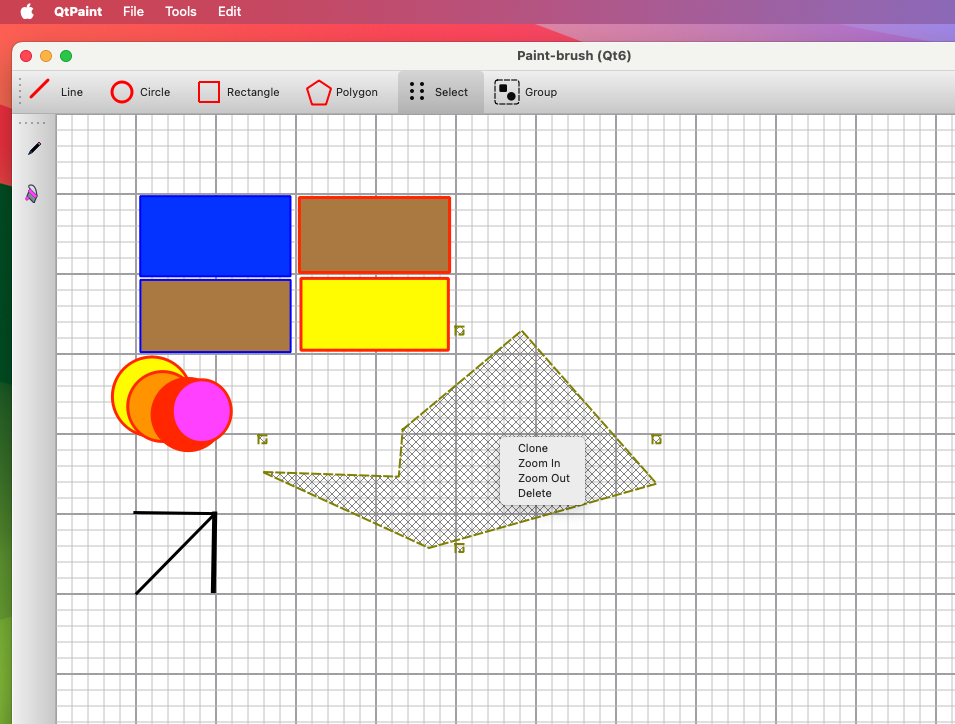
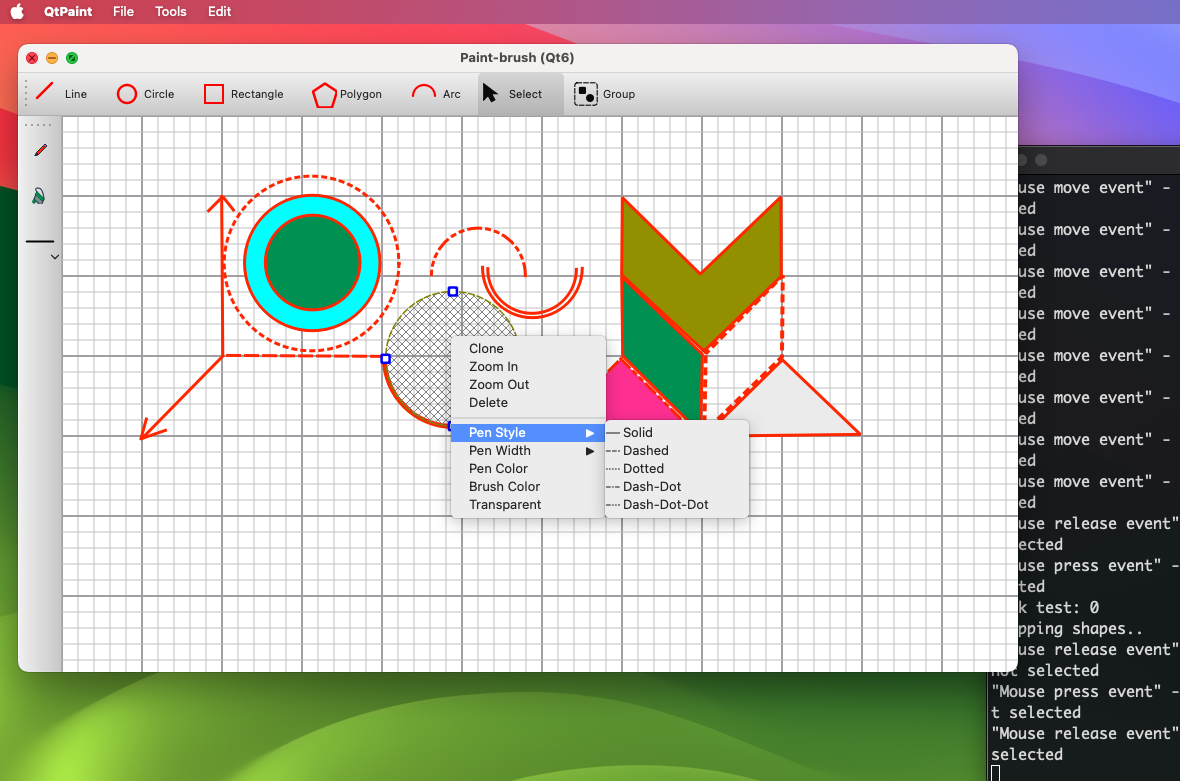
improve selection/drawing/grouping behaviour update screenshots update README.md

diff --git a/src/drawing_canvas.cpp b/src/drawing_canvas.cpp
@@ -37,9 +37,18 @@ DrawingCanvas::DrawingCanvas(QWidget *parent)
 
 // ----- called from main.cpp as user actions -----
 void DrawingCanvas::setMode(const ToolMode& mode) {
-    if (m_selected_shape == nullptr) {
-        m_mode = mode;
+    m_mode = mode;
+    if (m_selected_shape == nullptr)
         m_isDrawing = false;
+    else
+        // a shape is selected but the user wants to draw something
+        m_selected_shape = nullptr;
+    if (m_shape && !m_group_shapes.empty()) {
+        // when a group is selected but the user wants to draw something
+        m_shape.reset();
+        m_grouping = false;
+        m_group_shapes.clear();
+        QGuiApplication::restoreOverrideCursor();
     }
 }
 
@@ -215,6 +224,7 @@ void DrawingCanvas::cloneShape() {
 }
 
 void DrawingCanvas::cloneGroup() {
+    assert(!m_group_shapes.empty());
     for(const auto& shape : m_group_shapes) {
         auto cloned_shape = shape->clone();
         // move a bit on the right the cloned shapes
@@ -294,7 +304,6 @@ void DrawingCanvas::mousePressEvent(QMouseEvent *event) {
     }
     logging("Mouse press event");
     const QPointF mousePos = event->position();
-
     // Group Dragging
     if (!m_group_shapes.empty()) {
         if (!QGuiApplication::overrideCursor()) {
@@ -305,12 +314,10 @@ void DrawingCanvas::mousePressEvent(QMouseEvent *event) {
         event->accept();
         return;
     }
-
     // Shape Manipulation (Resize or Move)
     if (m_selected_shape) {
         m_handle = m_selected_shape->hookTest(mousePos);
         qDebug() << "Hook test:" << m_handle;
-
         if (m_handle != HandlePosition::None) {
             // Clicked a resize handle
             m_start_zoom_pos = mousePos;
@@ -327,6 +334,12 @@ void DrawingCanvas::mousePressEvent(QMouseEvent *event) {
         event->accept();
         return;
     }
+    if (drawingShape()) {
+        drawingMode(event);
+        update();
+        event->accept();
+        return;
+    }
     // Shape Selection / Picking
     m_selected_shape = getSelectedShape(mousePos);
     if (m_selected_shape) {
@@ -338,13 +351,9 @@ void DrawingCanvas::mousePressEvent(QMouseEvent *event) {
             globalPos,
             QStringLiteral("Use the wheel to zoom-in zoom-out, click right for more actions")
         );
-    } 
-    // 4. Drawing Mode (No shape selected)
-    else {
-        drawingMode(event);
+        update();
+        event->accept();
     }
-    update();
-    event->accept();
 }
 
 void DrawingCanvas::mouseMoveEvent(QMouseEvent *event) {
@@ -394,7 +403,7 @@ void DrawingCanvas::mouseMoveEvent(QMouseEvent *event) {
         update();
         event->accept();
     }
-    else if (m_grouping) {        
+    else if (m_grouping && !m_group_shapes.empty()) {      
         // grouping case
         QPointF delta = event->position() - m_current_pos;
         for(const auto& shape : m_group_shapes) {
@@ -439,18 +448,19 @@ void DrawingCanvas::mouseReleaseEvent(QMouseEvent *event)  {
                 m_shape.reset();
         }
     }
-    else if (m_grouping) {
-        assert(m_shape);
-        if (!m_shape->contains(event->position())) {
-            /*
-                click outside the grouping rectangle
-                clear the list containing the grouped shapes and flags
+    else if (m_shape && m_grouping) {
+        if (m_group_shapes.empty() || !m_shape->contains(event->position())) {
+            /* 
+                click outside the grouping rectangle;
+                Grouping is engaged but no shape selected;
+                clear the list containing the grouped shapes and flags;
             */
             m_grouping = false;
             m_shape.reset();
             m_group_shapes.clear();
             QGuiApplication::restoreOverrideCursor();
-        } else
+        }
+        else
             m_shape->toolHint(mapToGlobal(event->position().toPoint()),
                 std::move(QString("Use the wheel to zoom in zoom out")));
     }
@@ -659,6 +669,7 @@ bool DrawingCanvas::hookSelected(const HandlePosition handle) const {
 
 void DrawingCanvas::logging(const std::string& message) {
     qDebug() << message << "- drawing" << m_isDrawing << "- grouping" << m_grouping <<
+        "grouped shapes" << m_group_shapes.size() << "-" <<
         (m_shape == nullptr ? "shape not defined" : "new shape defined") << "-" <<
         (m_selected_shape != nullptr ? "shape selected" : "shape not selected ");
 }
@@ -668,5 +679,18 @@ bool DrawingCanvas::oneShotShape() const {
          || m_mode == ToolMode::Circle
          || m_mode == ToolMode::Rectangle
          || m_mode == ToolMode::Arc
-         || m_mode == ToolMode::Group);
+         || m_mode == ToolMode::Group
+    );
 }
+
+bool DrawingCanvas::drawingShape() const {
+    return (m_mode == ToolMode::Line
+         || m_mode == ToolMode::Circle
+         || m_mode == ToolMode::Rectangle
+         || m_mode == ToolMode::Arc
+         || m_mode == ToolMode::Polygon
+         || m_mode == ToolMode::Group
+    );
+}
+
+

diff --git a/src/icons.cpp b/src/icons.cpp
@@ -65,33 +65,36 @@ QIcon createPolygonIcon() {
     return QIcon(pixmap);
 }
 
-QIcon createSelectIcon(unsigned size, const QColor &dotColor) {
-    // 1. Create a transparent pixmap buffer
+QIcon createSelectIcon(unsigned size, const QColor &arrow_color) {
+    // 1. Create a transparent pixmap
     QPixmap pixmap(size, size);
     pixmap.fill(Qt::transparent);
 
     QPainter painter(&pixmap);
-    painter.setRenderHint(QPainter::Antialiasing);
-    painter.setPen(Qt::NoPen);
-    painter.setBrush(dotColor);
+    painter.setRenderHint(QPainter::Antialiasing, true);
 
-    // 2. Define grid parameters (2 columns x 3 rows of grip dots)
-    int dotRadius = size / 13; // Radius of each dot
-    if (dotRadius < 2) dotRadius = 2;
+    // 2. Define the cursor arrow shape (normalized to a 0.0 - 1.0 coordinate space)
+    QPainterPath path;
+    path.moveTo(0.080f, 0.090f); // Tip
+    path.lineTo(0.080f, 0.730f); // Left edge
+    path.lineTo(0.256f, 0.554f); // Inner corner left
+    path.lineTo(0.400f, 0.810f); // Tail right
+    path.lineTo(0.528f, 0.738f); // Tail tip
+    path.lineTo(0.384f, 0.482f); // Inner corner right
+    path.lineTo(0.600f, 0.482f); // Right barb
+    path.closeSubpath();
+    
+    // 3. Scale path to fit the target icon pixel size
+    QTransform matrix;
+    matrix.scale(size, size);
+    QPainterPath scaledPath = matrix.map(path);
 
-    int spacingY = size / 4;  // Vertical distance between dots
-    int col1_X = size / 3;    // Left column X
-    int col2_X = (size * 2) / 3; // Right column X
-    int startY = size / 4;    // Top row Y
+    // 4. Draw stroke (outline) and fill
+    QPen pen(arrow_color, 1.5, Qt::SolidLine, Qt::SquareCap, Qt::MiterJoin);
+    painter.setPen(pen);
+    painter.setBrush(arrow_color);
+    painter.drawPath(scaledPath);
 
-    // 3. Draw the 6 dots forming a vertical drag grip handle
-    for (int i = 0; i < 3; ++i) {
-        int y = startY + (i * spacingY);
-        // Left column dot
-        painter.drawEllipse(QPoint(col1_X, y), dotRadius, dotRadius);
-        // Right column dot
-        painter.drawEllipse(QPoint(col2_X, y), dotRadius, dotRadius);
-    }
     return QIcon(pixmap);
 }
 

diff --git a/src/icons.h b/src/icons.h
@@ -23,12 +23,12 @@ helper file for icons drawing
 #include <QToolButton>
 #include <QInputDialog>
 
-constexpr unsigned ICON_SIZE = 30;
+constexpr unsigned ICON_SIZE = 28;
 
 QIcon   createLineIcon(unsigned size = ICON_SIZE);
 QIcon   createCircleIcon(unsigned size = ICON_SIZE);
 QIcon   createRectangleIcon(unsigned size = ICON_SIZE);
-QIcon   createSelectIcon(unsigned size = ICON_SIZE, const QColor &dotColor = QColor(10, 10, 10));
+QIcon   createSelectIcon(unsigned size = ICON_SIZE - 4, const QColor &arrow_color = QColor(10, 10, 10));
 QIcon   createPencilIcon(const QColor &color);
 QIcon   createBrushIcon(const QColor &color);
 QIcon   createPolygonIcon();

diff --git a/src/drawing_canvas.h b/src/drawing_canvas.h
@@ -86,6 +86,8 @@ private:
     // Line, Rectangle, Circle, Arc or grouping (draw in one shot, except Polygon)
     bool oneShotShape() const;
 
+    bool drawingShape() const;
+
     // Attributes
     // drawing mode, Circle, Line, Selection..
     ToolMode m_mode;

diff --git a/src/shapes.cpp b/src/shapes.cpp
@@ -512,7 +512,7 @@ void CircleShape::resizeShape(const QPointF &delta, const HandlePosition hp) {
             break;
         }
         default:
-            assert(0);
+            qDebug() << "resize shape, unknown handle";
             break;
     }
 }

diff --git a/README.md b/README.md
@@ -14,12 +14,13 @@ It allows the following operations:
   - clone a selectes shape (Copy/Paste)
   - change the background or the foreground color of a shape
   - set the background of a shape to be transparent
-  - change the pen width, color and brush color
+  - change the pen width, pen style, pen color and brush color
 
 3. Group shapes
    By click and drag over shapes it is possible to group them allowing the following:
   - drag the whole group
   - ZoomIn ZoomOut using the wheel
+  - Clone the whole group
 
 4. Persistency
   - save current work that load it later
@@ -28,4 +29,5 @@ Remark:
 -some parts of the code were written using Google Gemini AI
 
 ![App Screenshot](./screenshots/Screenshot2.png)
+![App Screenshot](./screenshots/screenshot1.png)
 
